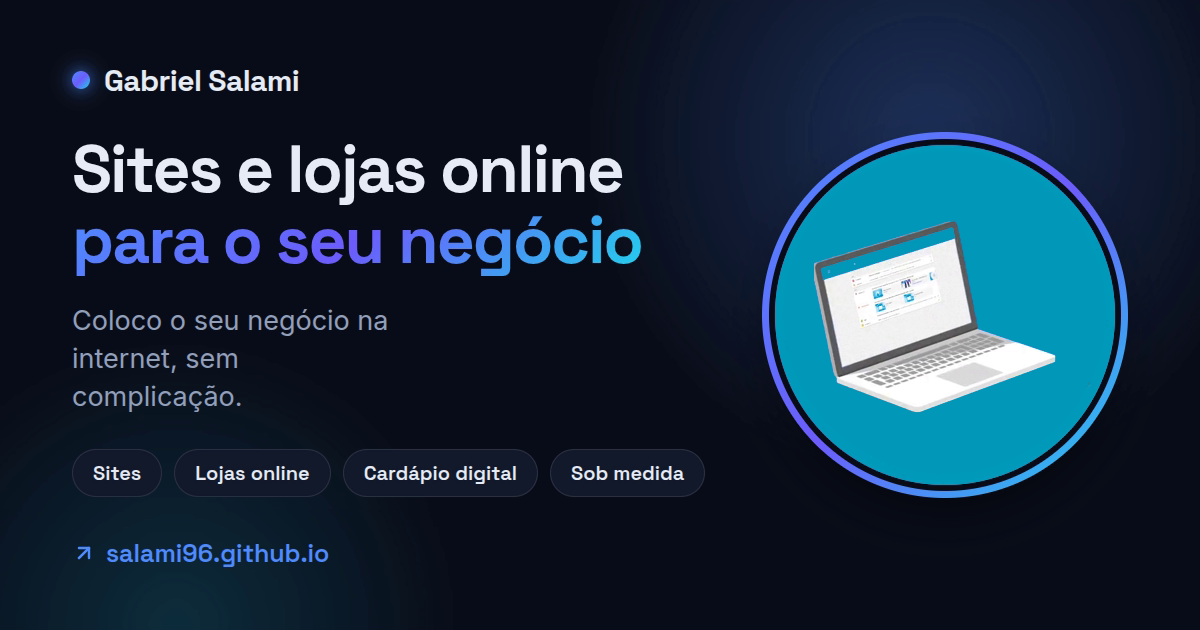
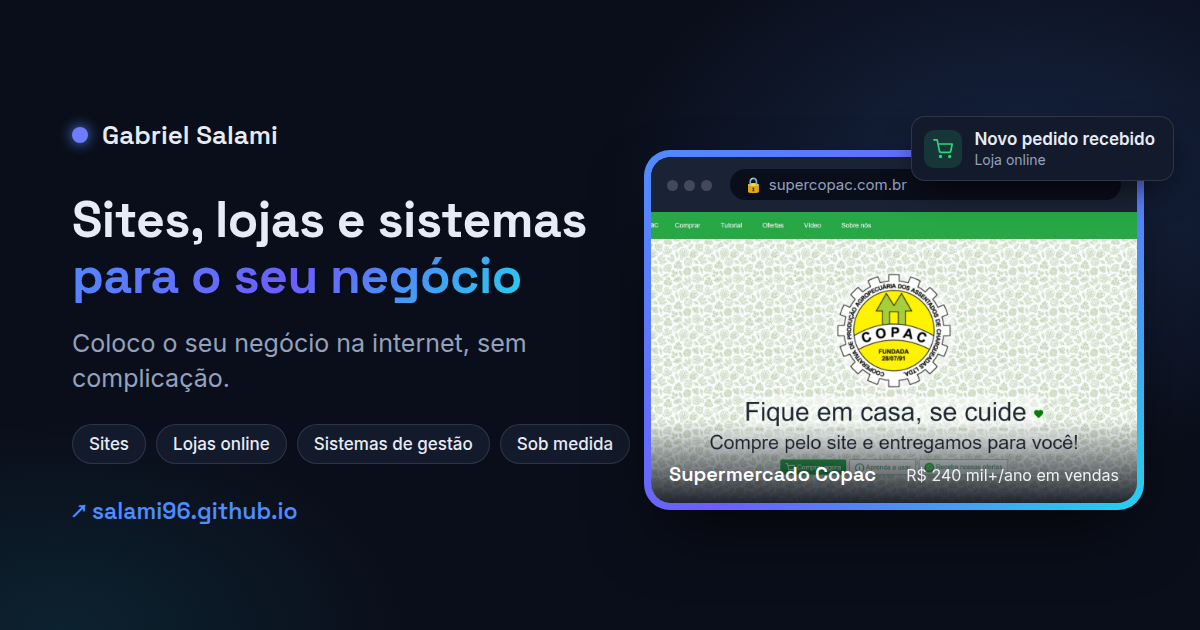
Alinha a OG ao novo hero, destaca sistemas de gestão e tira o Facebook
- og.png: janela do Copac com aviso de pedido e resultado, no lugar do
  laptop; tags com "Sistemas de gestão"; URL versionada contra cache
- Título e descrições de compartilhamento citam sistemas de gestão
- Card de sistemas vira "Sistemas de gestão e sob medida" (estoque,
  vendas, caixa, clientes, agendamentos) + item no strip de ofertas
- "Ver o que já fiz" -> "Veja o que já fiz"
- Remove o link do Facebook do rodapé de todas as páginas

diff --git a/index.html b/index.html
@@ -5,9 +5,9 @@
   <meta charset="utf-8">
   <meta name="viewport" content="width=device-width, initial-scale=1.0">
   <script>(function(d){var t=localStorage.getItem('theme');if(!t)t=matchMedia('(prefers-color-scheme: light)').matches?'light':'dark';d.documentElement.setAttribute('data-theme',t);d.documentElement.className+=' js';})(document);</script>
-  <title>Gabriel Salami — Sites e lojas online para o seu negócio</title>
+  <title>Gabriel Salami — Sites, lojas e sistemas para o seu negócio</title>
   <meta name="description"
-    content="Crio sites, lojas online e sistemas sob medida para comércios e pequenos negócios. Atendimento direto comigo, sem complicação e sem enrolação técnica. Peça um orçamento sem compromisso.">
+    content="Crio sites, lojas online e sistemas de gestão sob medida para comércios e pequenos negócios. Atendimento direto comigo, sem complicação e sem enrolação técnica. Peça um orçamento sem compromisso.">
   <link rel="canonical" href="https://salami96.github.io/">
   <link rel="icon" type="image/x-icon" href="/assets/img/avatar.ico">
   <meta name="theme-color" content="#0a0e1a">
@@ -15,19 +15,19 @@
   <!-- Open Graph / Facebook -->
   <meta property="og:type" content="website">
   <meta property="og:url" content="https://salami96.github.io/">
-  <meta property="og:title" content="Gabriel Salami — Sites e lojas online para o seu negócio">
+  <meta property="og:title" content="Gabriel Salami — Sites, lojas e sistemas para o seu negócio">
   <meta property="og:description"
-    content="Coloco o seu comércio na internet: site, loja online e sistemas sob medida. Sem complicação, com atendimento direto e orçamento sem compromisso.">
-  <meta property="og:image" content="https://salami96.github.io/assets/img/og.png">
+    content="Coloco o seu comércio na internet: site, loja online e sistemas de gestão sob medida. Sem complicação, com atendimento direto e orçamento sem compromisso.">
+  <meta property="og:image" content="https://salami96.github.io/assets/img/og.png?v=20261031">
   <meta property="og:image:width" content="1200">
   <meta property="og:image:height" content="630">
-  <meta property="og:image:alt" content="Gabriel Salami — Sites e lojas online para o seu negócio">
+  <meta property="og:image:alt" content="Gabriel Salami — Sites, lojas e sistemas para o seu negócio">
 
   <!-- Twitter -->
   <meta name="twitter:card" content="summary_large_image">
-  <meta name="twitter:title" content="Gabriel Salami — Sites e lojas online para o seu negócio">
-  <meta name="twitter:description" content="Sites, lojas online e sistemas sob medida para o seu comércio.">
-  <meta name="twitter:image" content="https://salami96.github.io/assets/img/og.png">
+  <meta name="twitter:title" content="Gabriel Salami — Sites, lojas e sistemas para o seu negócio">
+  <meta name="twitter:description" content="Sites, lojas online e sistemas de gestão para o seu comércio.">
+  <meta name="twitter:image" content="https://salami96.github.io/assets/img/og.png?v=20261031">
 
   <link rel="preconnect" href="https://fonts.googleapis.com">
   <link rel="preconnect" href="https://fonts.gstatic.com" crossorigin>
@@ -42,7 +42,7 @@
     "@type": "ProfessionalService",
     "name": "Gabriel Salami — Criação de sites e lojas online",
     "url": "https://salami96.github.io/",
-    "description": "Criação de sites, lojas online e sistemas sob medida para comércios e pequenos negócios.",
+    "description": "Criação de sites, lojas online e sistemas de gestão sob medida para comércios e pequenos negócios.",
     "areaServed": "Brasil",
     "founder": {
       "@type": "Person",
@@ -96,7 +96,7 @@
               <a class="btn btn-primary" href="#contato">Pedir um orçamento
                 <svg viewBox="0 0 24 24" fill="none" stroke="currentColor" stroke-width="2" stroke-linecap="round" stroke-linejoin="round"><line x1="5" y1="12" x2="19" y2="12"/><polyline points="12 5 19 12 12 19"/></svg>
               </a>
-              <a class="btn btn-ghost" href="#trabalhos">Ver o que já fiz</a>
+              <a class="btn btn-ghost" href="#trabalhos">Veja o que já fiz</a>
             </div>
             <div class="hero-stats">
               <div><div class="num gradient-text">7+</div><div class="label">anos criando sites e sistemas</div></div>
@@ -145,7 +145,7 @@
     <div class="tech-strip">
       <div class="container">
         <span>Sites profissionais</span><span>Lojas online</span><span>Catálogo &amp; cardápio digital</span>
-        <span>Pedidos pelo WhatsApp</span><span>Sistemas sob medida</span><span>Apps para celular</span><span>Suporte e manutenção</span>
+        <span>Pedidos pelo WhatsApp</span><span>Sistemas de gestão</span><span>Sistemas sob medida</span><span>Apps para celular</span><span>Suporte e manutenção</span>
       </div>
     </div>
 
@@ -181,11 +181,11 @@
             <div class="card-icon">
               <svg viewBox="0 0 24 24" fill="none" stroke="currentColor" stroke-width="2" stroke-linecap="round" stroke-linejoin="round"><line x1="4" y1="21" x2="4" y2="14"/><line x1="4" y1="10" x2="4" y2="3"/><line x1="12" y1="21" x2="12" y2="12"/><line x1="12" y1="8" x2="12" y2="3"/><line x1="20" y1="21" x2="20" y2="16"/><line x1="20" y1="12" x2="20" y2="3"/><line x1="1" y1="14" x2="7" y2="14"/><line x1="9" y1="8" x2="15" y2="8"/><line x1="17" y1="16" x2="23" y2="16"/></svg>
             </div>
-            <h3>Sistemas, apps e automações</h3>
-            <p>Precisa de algo específico — agendamento, controle interno, um aplicativo, automatizar uma tarefa
-              repetitiva ou tirar do papel o MVP de um produto? Desenvolvo a solução do jeito que o seu negócio
-              funciona de verdade.</p>
-            <div class="tag-row"><span class="tag">Sistemas web</span><span class="tag">MVPs</span><span class="tag">Automações</span><span class="tag">Apps</span></div>
+            <h3>Sistemas de gestão e sob medida</h3>
+            <p>Controle de estoque, vendas, caixa, clientes ou agendamentos — um sistema de gestão feito do jeito
+              que o seu negócio funciona, sem planilha espalhada. Também crio apps, automações e o MVP do seu
+              produto.</p>
+            <div class="tag-row"><span class="tag">Sistemas de gestão</span><span class="tag">Automações</span><span class="tag">MVPs</span><span class="tag">Apps</span></div>
           </article>
         </div>
       </div>
@@ -388,9 +388,6 @@
         </a>
         <a href="https://www.linkedin.com/in/gabriel-zanatto-salami/" target="_blank" rel="noopener noreferrer" aria-label="LinkedIn">
           <svg viewBox="0 0 24 24" fill="currentColor"><path d="M20.447 20.452h-3.554v-5.569c0-1.328-.027-3.037-1.852-3.037-1.853 0-2.136 1.445-2.136 2.939v5.667H9.351V9h3.414v1.561h.046c.477-.9 1.637-1.85 3.37-1.85 3.601 0 4.267 2.37 4.267 5.455v6.286zM5.337 7.433a2.062 2.062 0 0 1-2.063-2.065 2.064 2.064 0 1 1 2.063 2.065zm1.782 13.019H3.555V9h3.564v11.452zM22.225 0H1.771C.792 0 0 .774 0 1.729v20.542C0 23.227.792 24 1.771 24h20.451C23.2 24 24 23.227 24 22.271V1.729C24 .774 23.2 0 22.225 0z"/></svg>
-        </a>
-        <a href="https://facebook.com/gabriel.zanattosalami" target="_blank" rel="noopener noreferrer" aria-label="Facebook">
-          <svg viewBox="0 0 24 24" fill="currentColor"><path d="M24 12.073c0-6.627-5.373-12-12-12s-12 5.373-12 12c0 5.99 4.388 10.954 10.125 11.854v-8.385H7.078v-3.47h3.047V9.43c0-3.007 1.792-4.669 4.533-4.669 1.312 0 2.686.235 2.686.235v2.953H15.83c-1.491 0-1.956.925-1.956 1.874v2.25h3.328l-.532 3.47h-2.796v8.385C19.612 23.027 24 18.062 24 12.073z"/></svg>
         </a>
       </div>
       <p class="copy">© <span id="year">2026</span> Gabriel Zanatto Salami · Feito com café e código.</p>

diff --git a/copac.html b/copac.html
@@ -109,7 +109,6 @@
       <div class="socials">
         <a href="https://github.com/salami96" target="_blank" rel="noopener noreferrer" aria-label="GitHub"><svg viewBox="0 0 24 24" fill="currentColor"><path d="M12 .297c-6.63 0-12 5.373-12 12 0 5.303 3.438 9.8 8.205 11.385.6.113.82-.258.82-.577 0-.285-.01-1.04-.015-2.04-3.338.724-4.042-1.61-4.042-1.61-.546-1.387-1.333-1.756-1.333-1.756-1.089-.745.083-.729.083-.729 1.205.084 1.839 1.237 1.839 1.237 1.07 1.834 2.807 1.304 3.492.997.107-.775.418-1.305.762-1.604-2.665-.305-5.467-1.334-5.467-5.931 0-1.311.469-2.381 1.236-3.221-.124-.303-.535-1.524.117-3.176 0 0 1.008-.322 3.301 1.23A11.5 11.5 0 0 1 12 5.803c1.02.005 2.047.138 3.006.404 2.291-1.552 3.297-1.23 3.297-1.23.653 1.653.242 2.874.118 3.176.77.84 1.235 1.91 1.235 3.221 0 4.609-2.807 5.624-5.479 5.921.43.372.823 1.102.823 2.222 0 1.606-.014 2.898-.014 3.293 0 .322.216.694.825.576C20.565 22.092 24 17.592 24 12.297c0-6.627-5.373-12-12-12"/></svg></a>
         <a href="https://www.linkedin.com/in/gabriel-zanatto-salami/" target="_blank" rel="noopener noreferrer" aria-label="LinkedIn"><svg viewBox="0 0 24 24" fill="currentColor"><path d="M20.447 20.452h-3.554v-5.569c0-1.328-.027-3.037-1.852-3.037-1.853 0-2.136 1.445-2.136 2.939v5.667H9.351V9h3.414v1.561h.046c.477-.9 1.637-1.85 3.37-1.85 3.601 0 4.267 2.37 4.267 5.455v6.286zM5.337 7.433a2.062 2.062 0 0 1-2.063-2.065 2.064 2.064 0 1 1 2.063 2.065zm1.782 13.019H3.555V9h3.564v11.452zM22.225 0H1.771C.792 0 0 .774 0 1.729v20.542C0 23.227.792 24 1.771 24h20.451C23.2 24 24 23.227 24 22.271V1.729C24 .774 23.2 0 22.225 0z"/></svg></a>
-        <a href="https://facebook.com/gabriel.zanattosalami" target="_blank" rel="noopener noreferrer" aria-label="Facebook"><svg viewBox="0 0 24 24" fill="currentColor"><path d="M24 12.073c0-6.627-5.373-12-12-12s-12 5.373-12 12c0 5.99 4.388 10.954 10.125 11.854v-8.385H7.078v-3.47h3.047V9.43c0-3.007 1.792-4.669 4.533-4.669 1.312 0 2.686.235 2.686.235v2.953H15.83c-1.491 0-1.956.925-1.956 1.874v2.25h3.328l-.532 3.47h-2.796v8.385C19.612 23.027 24 18.062 24 12.073z"/></svg></a>
       </div>
       <p class="copy">© <span id="year">2026</span> Gabriel Zanatto Salami</p>
     </div>

diff --git a/nicole-collections.html b/nicole-collections.html
@@ -104,7 +104,6 @@
       <div class="socials">
         <a href="https://github.com/salami96" target="_blank" rel="noopener noreferrer" aria-label="GitHub"><svg viewBox="0 0 24 24" fill="currentColor"><path d="M12 .297c-6.63 0-12 5.373-12 12 0 5.303 3.438 9.8 8.205 11.385.6.113.82-.258.82-.577 0-.285-.01-1.04-.015-2.04-3.338.724-4.042-1.61-4.042-1.61-.546-1.387-1.333-1.756-1.333-1.756-1.089-.745.083-.729.083-.729 1.205.084 1.839 1.237 1.839 1.237 1.07 1.834 2.807 1.304 3.492.997.107-.775.418-1.305.762-1.604-2.665-.305-5.467-1.334-5.467-5.931 0-1.311.469-2.381 1.236-3.221-.124-.303-.535-1.524.117-3.176 0 0 1.008-.322 3.301 1.23A11.5 11.5 0 0 1 12 5.803c1.02.005 2.047.138 3.006.404 2.291-1.552 3.297-1.23 3.297-1.23.653 1.653.242 2.874.118 3.176.77.84 1.235 1.91 1.235 3.221 0 4.609-2.807 5.624-5.479 5.921.43.372.823 1.102.823 2.222 0 1.606-.014 2.898-.014 3.293 0 .322.216.694.825.576C20.565 22.092 24 17.592 24 12.297c0-6.627-5.373-12-12-12"/></svg></a>
         <a href="https://www.linkedin.com/in/gabriel-zanatto-salami/" target="_blank" rel="noopener noreferrer" aria-label="LinkedIn"><svg viewBox="0 0 24 24" fill="currentColor"><path d="M20.447 20.452h-3.554v-5.569c0-1.328-.027-3.037-1.852-3.037-1.853 0-2.136 1.445-2.136 2.939v5.667H9.351V9h3.414v1.561h.046c.477-.9 1.637-1.85 3.37-1.85 3.601 0 4.267 2.37 4.267 5.455v6.286zM5.337 7.433a2.062 2.062 0 0 1-2.063-2.065 2.064 2.064 0 1 1 2.063 2.065zm1.782 13.019H3.555V9h3.564v11.452zM22.225 0H1.771C.792 0 0 .774 0 1.729v20.542C0 23.227.792 24 1.771 24h20.451C23.2 24 24 23.227 24 22.271V1.729C24 .774 23.2 0 22.225 0z"/></svg></a>
-        <a href="https://facebook.com/gabriel.zanattosalami" target="_blank" rel="noopener noreferrer" aria-label="Facebook"><svg viewBox="0 0 24 24" fill="currentColor"><path d="M24 12.073c0-6.627-5.373-12-12-12s-12 5.373-12 12c0 5.99 4.388 10.954 10.125 11.854v-8.385H7.078v-3.47h3.047V9.43c0-3.007 1.792-4.669 4.533-4.669 1.312 0 2.686.235 2.686.235v2.953H15.83c-1.491 0-1.956.925-1.956 1.874v2.25h3.328l-.532 3.47h-2.796v8.385C19.612 23.027 24 18.062 24 12.073z"/></svg></a>
       </div>
       <p class="copy">© <span id="year">2026</span> Gabriel Zanatto Salami</p>
     </div>

diff --git a/produtos-app.html b/produtos-app.html
@@ -103,7 +103,6 @@
       <div class="socials">
         <a href="https://github.com/salami96" target="_blank" rel="noopener noreferrer" aria-label="GitHub"><svg viewBox="0 0 24 24" fill="currentColor"><path d="M12 .297c-6.63 0-12 5.373-12 12 0 5.303 3.438 9.8 8.205 11.385.6.113.82-.258.82-.577 0-.285-.01-1.04-.015-2.04-3.338.724-4.042-1.61-4.042-1.61-.546-1.387-1.333-1.756-1.333-1.756-1.089-.745.083-.729.083-.729 1.205.084 1.839 1.237 1.839 1.237 1.07 1.834 2.807 1.304 3.492.997.107-.775.418-1.305.762-1.604-2.665-.305-5.467-1.334-5.467-5.931 0-1.311.469-2.381 1.236-3.221-.124-.303-.535-1.524.117-3.176 0 0 1.008-.322 3.301 1.23A11.5 11.5 0 0 1 12 5.803c1.02.005 2.047.138 3.006.404 2.291-1.552 3.297-1.23 3.297-1.23.653 1.653.242 2.874.118 3.176.77.84 1.235 1.91 1.235 3.221 0 4.609-2.807 5.624-5.479 5.921.43.372.823 1.102.823 2.222 0 1.606-.014 2.898-.014 3.293 0 .322.216.694.825.576C20.565 22.092 24 17.592 24 12.297c0-6.627-5.373-12-12-12"/></svg></a>
         <a href="https://www.linkedin.com/in/gabriel-zanatto-salami/" target="_blank" rel="noopener noreferrer" aria-label="LinkedIn"><svg viewBox="0 0 24 24" fill="currentColor"><path d="M20.447 20.452h-3.554v-5.569c0-1.328-.027-3.037-1.852-3.037-1.853 0-2.136 1.445-2.136 2.939v5.667H9.351V9h3.414v1.561h.046c.477-.9 1.637-1.85 3.37-1.85 3.601 0 4.267 2.37 4.267 5.455v6.286zM5.337 7.433a2.062 2.062 0 0 1-2.063-2.065 2.064 2.064 0 1 1 2.063 2.065zm1.782 13.019H3.555V9h3.564v11.452zM22.225 0H1.771C.792 0 0 .774 0 1.729v20.542C0 23.227.792 24 1.771 24h20.451C23.2 24 24 23.227 24 22.271V1.729C24 .774 23.2 0 22.225 0z"/></svg></a>
-        <a href="https://facebook.com/gabriel.zanattosalami" target="_blank" rel="noopener noreferrer" aria-label="Facebook"><svg viewBox="0 0 24 24" fill="currentColor"><path d="M24 12.073c0-6.627-5.373-12-12-12s-12 5.373-12 12c0 5.99 4.388 10.954 10.125 11.854v-8.385H7.078v-3.47h3.047V9.43c0-3.007 1.792-4.669 4.533-4.669 1.312 0 2.686.235 2.686.235v2.953H15.83c-1.491 0-1.956.925-1.956 1.874v2.25h3.328l-.532 3.47h-2.796v8.385C19.612 23.027 24 18.062 24 12.073z"/></svg></a>
       </div>
       <p class="copy">© <span id="year">2026</span> Gabriel Zanatto Salami</p>
     </div>

diff --git a/s-trat.html b/s-trat.html
@@ -119,7 +119,6 @@
       <div class="socials">
         <a href="https://github.com/salami96" target="_blank" rel="noopener noreferrer" aria-label="GitHub"><svg viewBox="0 0 24 24" fill="currentColor"><path d="M12 .297c-6.63 0-12 5.373-12 12 0 5.303 3.438 9.8 8.205 11.385.6.113.82-.258.82-.577 0-.285-.01-1.04-.015-2.04-3.338.724-4.042-1.61-4.042-1.61-.546-1.387-1.333-1.756-1.333-1.756-1.089-.745.083-.729.083-.729 1.205.084 1.839 1.237 1.839 1.237 1.07 1.834 2.807 1.304 3.492.997.107-.775.418-1.305.762-1.604-2.665-.305-5.467-1.334-5.467-5.931 0-1.311.469-2.381 1.236-3.221-.124-.303-.535-1.524.117-3.176 0 0 1.008-.322 3.301 1.23A11.5 11.5 0 0 1 12 5.803c1.02.005 2.047.138 3.006.404 2.291-1.552 3.297-1.23 3.297-1.23.653 1.653.242 2.874.118 3.176.77.84 1.235 1.91 1.235 3.221 0 4.609-2.807 5.624-5.479 5.921.43.372.823 1.102.823 2.222 0 1.606-.014 2.898-.014 3.293 0 .322.216.694.825.576C20.565 22.092 24 17.592 24 12.297c0-6.627-5.373-12-12-12"/></svg></a>
         <a href="https://www.linkedin.com/in/gabriel-zanatto-salami/" target="_blank" rel="noopener noreferrer" aria-label="LinkedIn"><svg viewBox="0 0 24 24" fill="currentColor"><path d="M20.447 20.452h-3.554v-5.569c0-1.328-.027-3.037-1.852-3.037-1.853 0-2.136 1.445-2.136 2.939v5.667H9.351V9h3.414v1.561h.046c.477-.9 1.637-1.85 3.37-1.85 3.601 0 4.267 2.37 4.267 5.455v6.286zM5.337 7.433a2.062 2.062 0 0 1-2.063-2.065 2.064 2.064 0 1 1 2.063 2.065zm1.782 13.019H3.555V9h3.564v11.452zM22.225 0H1.771C.792 0 0 .774 0 1.729v20.542C0 23.227.792 24 1.771 24h20.451C23.2 24 24 23.227 24 22.271V1.729C24 .774 23.2 0 22.225 0z"/></svg></a>
-        <a href="https://facebook.com/gabriel.zanattosalami" target="_blank" rel="noopener noreferrer" aria-label="Facebook"><svg viewBox="0 0 24 24" fill="currentColor"><path d="M24 12.073c0-6.627-5.373-12-12-12s-12 5.373-12 12c0 5.99 4.388 10.954 10.125 11.854v-8.385H7.078v-3.47h3.047V9.43c0-3.007 1.792-4.669 4.533-4.669 1.312 0 2.686.235 2.686.235v2.953H15.83c-1.491 0-1.956.925-1.956 1.874v2.25h3.328l-.532 3.47h-2.796v8.385C19.612 23.027 24 18.062 24 12.073z"/></svg></a>
       </div>
       <p class="copy">© <span id="year">2026</span> Gabriel Zanatto Salami</p>
     </div>
